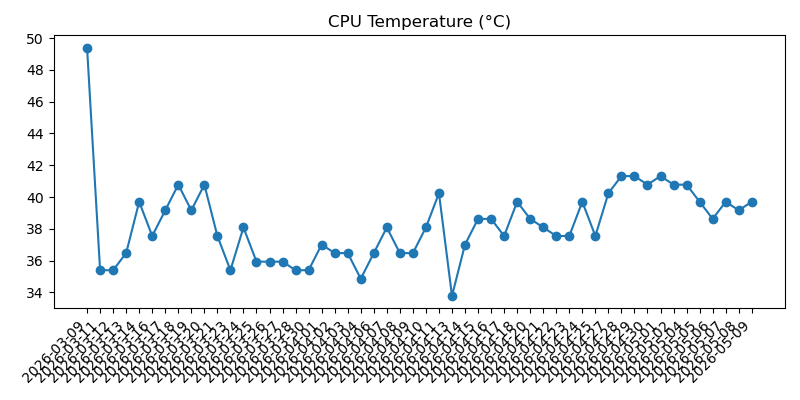
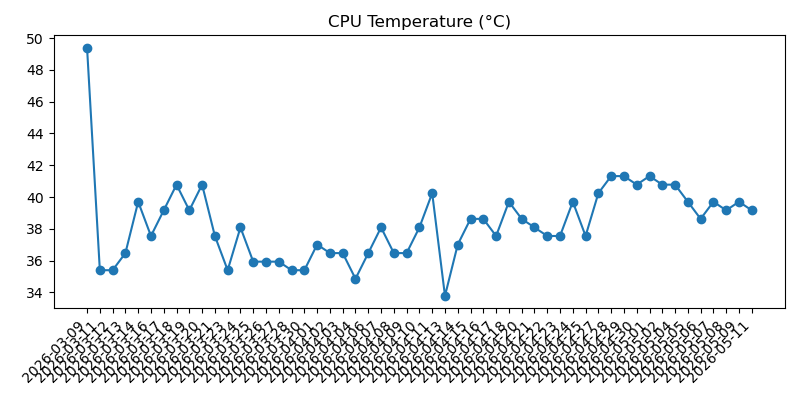
Update Pi daily status

Changed region(s): [[0.0625, 0.78, 0.9375, 0.96], [0.1562, 0.42, 0.9688, 0.75], [0.125, 0.63, 0.1562, 0.66]]

diff --git a/2026-05.md b/2026-05.md
@@ -272,3 +272,37 @@
 - Overall: Warning
 - Warning: Power issue detected: Undervoltage has occurred; Throttling has occurred
 
+## 2026-05-11 09:10:37
+
+### Machine
+- Uptime: up 2 weeks, 6 days, 10 hours, 56 minutes
+- CPU load (1m, 5m, 15m): 0.00, 0.00, 0.00
+- RAM used: 166 MB / 921 MB (18.0%)
+- Disk used (/): 3.5 GB / 28.8 GB (12.2%)
+- Free disk space (/): 24.1 GB
+- CPU temp: 39.2°C
+- Voltage / throttling: Undervoltage has occurred; Throttling has occurred
+
+### Reachability
+- Internet check (1.1.1.1): Reachable (4.5 ms)
+
+### Weather
+- Madrid:
+  - Condition: Nuboso con lluvia escasa
+  - Max temp: 18°C
+  - Min temp: 9°C
+  - Feels like: 13°C
+  - Chance of rain: 85%
+  - Warnings: None reported
+- Barcelona:
+  - Condition: Despejado
+  - Max temp: 24°C
+  - Min temp: 16°C
+  - Feels like: 20°C
+  - Chance of rain: 0%
+  - Warnings: None reported
+
+### Health
+- Overall: Warning
+- Warning: Power issue detected: Undervoltage has occurred; Throttling has occurred
+
